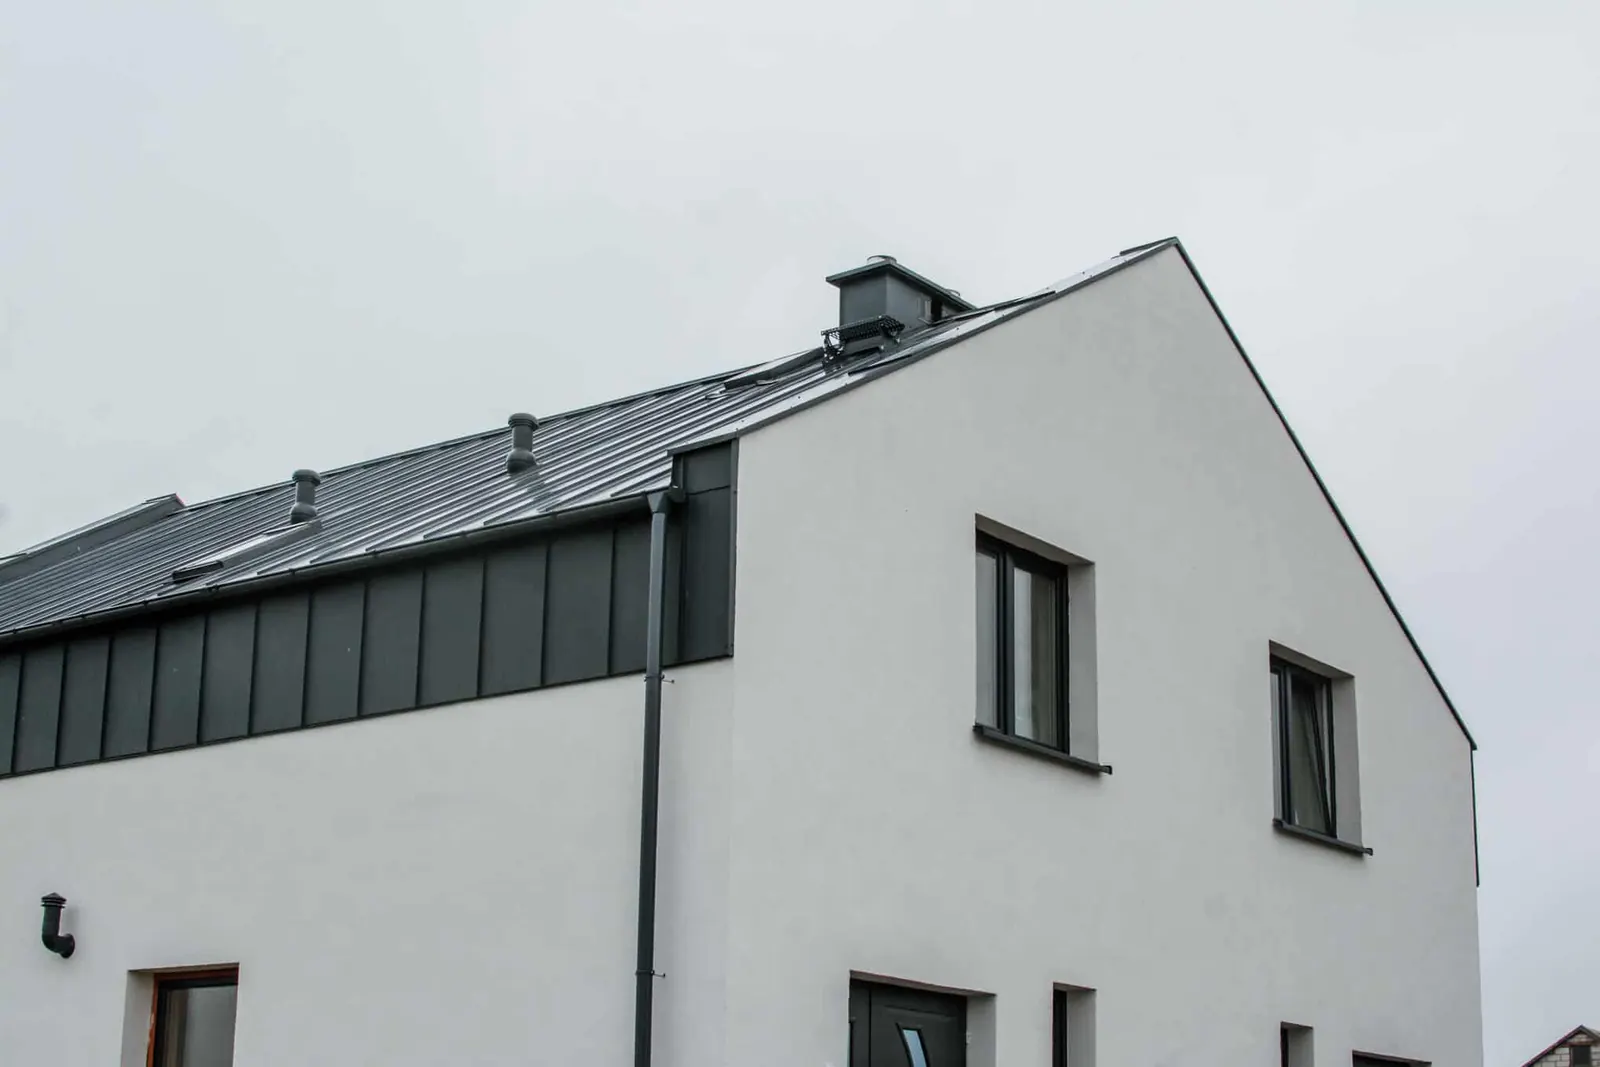
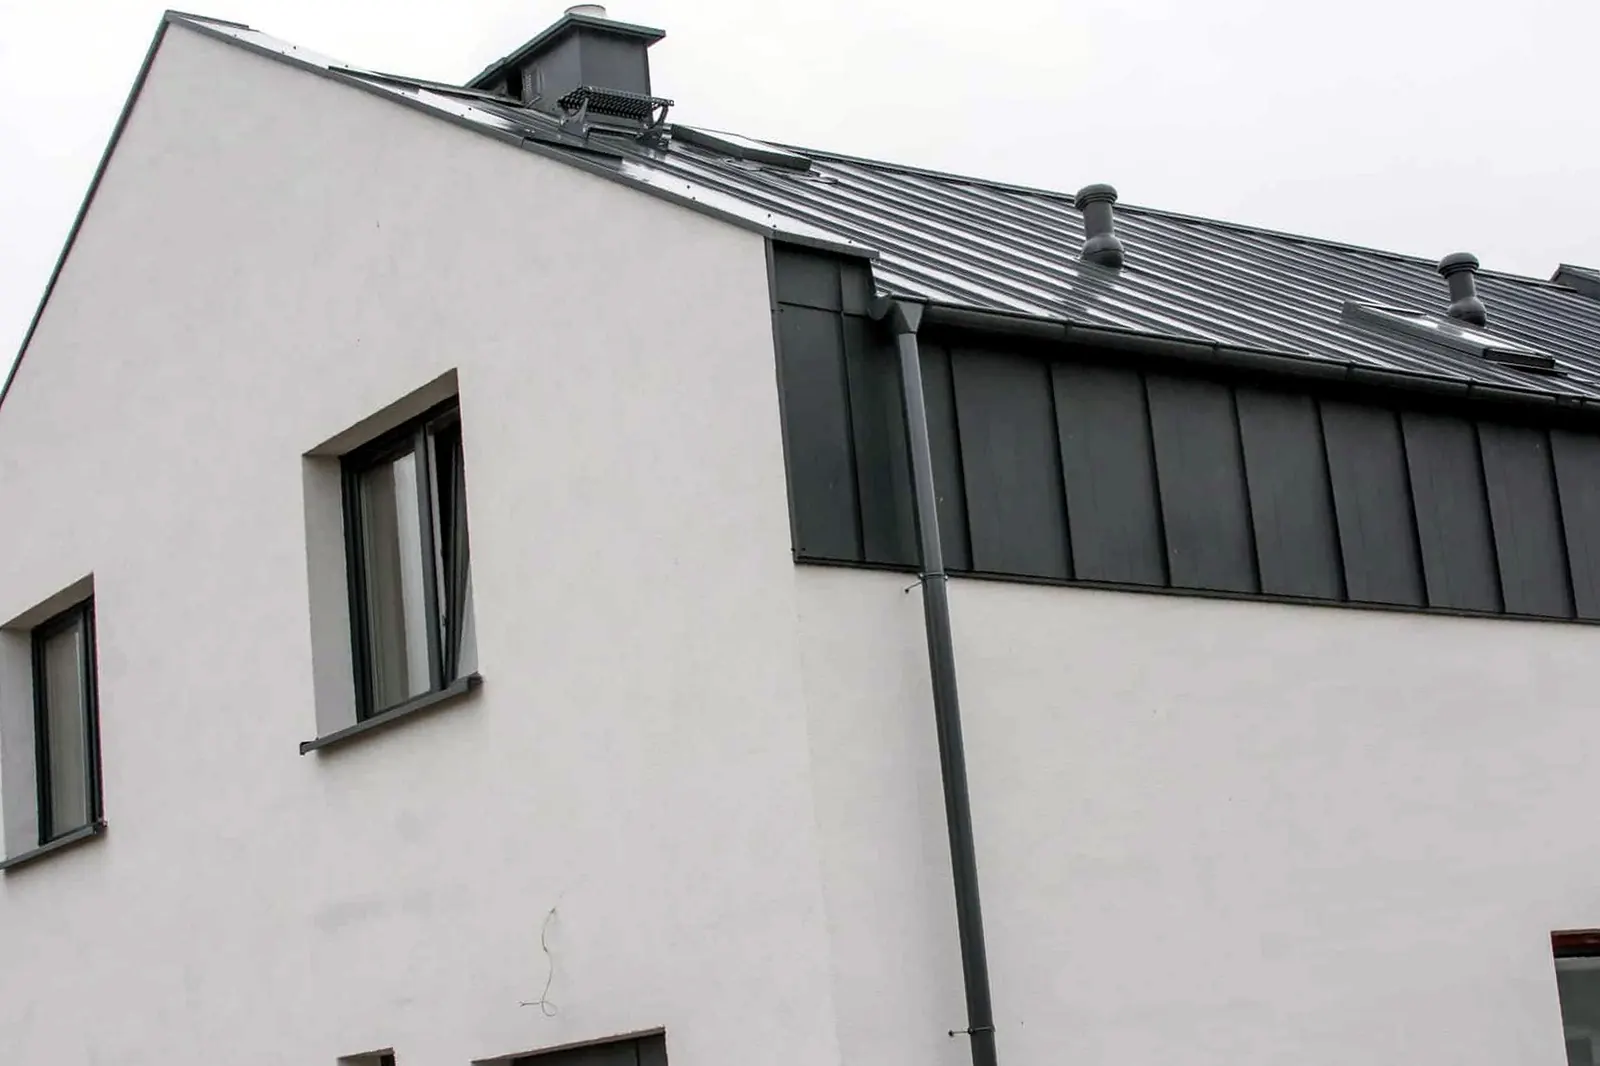
Level and reframe the realisation photographs; document the pipeline order
The three photographs were shot on a phone and shipped uncorrected: kubat8 was
about 4.9 degrees off, kubat7 about 5.1, and all three were flat grey and in three
different aspect ratios, which is part of why the gallery looked chaotic.

Now levelled by their measured tilt, cropped to an exact 3:2 (1.500, 1.501,
1.500), autocontrasted and exported at 1600px. The hero is now kubat7 - the most
complete view - and kubat1, which is keystone-dominated rather than merely tilted,
is demoted to a supporting shot because rotation cannot fix converging verticals.

Also adds a correction pass whose output the image build consumes, and corrects the
pipeline order during this work: rewire-schema.py reads the manifest, so it must run
after build-images.py. Run out of order it left the single-family JSON-LD image
array naming two tiles that no longer existed. Documented in docs/portfolio-system.md.

Note: levelling here is measured but approximate. kubat7 still shows the eave
converging because the camera looks along the house - that is perspective, not tilt,
and removing it needs a perspective correction rather than a rotation.

diff --git a/projekt-dom-jednorodzinny.html b/projekt-dom-jednorodzinny.html
@@ -117,23 +117,23 @@
             "@type": "ImageObject",
             "contentUrl": "https://goproject.com.pl/img/projects/dom-jednorodzinny/01-hero-1600.webp",
             "width": 1600,
-            "height": 1067,
-            "caption": "Dom jednorodzinny w Chojnicach — bryła od strony wjazdu",
+            "height": 1066,
+            "caption": "Dom jednorodzinny w Chojnicach — bryła od strony ogrodu",
             "representativeOfPage": true
           },
           {
             "@type": "ImageObject",
-            "contentUrl": "https://goproject.com.pl/img/projects/dom-jednorodzinny/02-widok-od-ogrodu-1000.webp",
-            "width": 1000,
-            "height": 667,
-            "caption": "Elewacja od strony ogrodu"
-          },
-          {
-            "@type": "ImageObject",
-            "contentUrl": "https://goproject.com.pl/img/projects/dom-jednorodzinny/03-elewacja-boczna-1000.webp",
+            "contentUrl": "https://goproject.com.pl/img/projects/dom-jednorodzinny/02-widok-od-ulicy-1000.webp",
             "width": 1000,
             "height": 667,
             "caption": "Elewacja boczna z oknami dachowymi"
+          },
+          {
+            "@type": "ImageObject",
+            "contentUrl": "https://goproject.com.pl/img/projects/dom-jednorodzinny/03-elewacja-frontowa-1000.webp",
+            "width": 1000,
+            "height": 667,
+            "caption": "Główna elewacja od strony wjazdu"
           }
         ]
       },
@@ -311,19 +311,19 @@
         
       </div>
 
-                        <!-- MAIN HERO IMAGE -->
+                              <!-- MAIN HERO IMAGE -->
       <figure class="mb-16 border border-gray-200 shadow-2xl overflow-hidden relative group">
         <img src="./img/projects/dom-jednorodzinny/01-hero-800.webp"
           srcset="./img/projects/dom-jednorodzinny/01-hero-800.webp 800w, ./img/projects/dom-jednorodzinny/01-hero-1600.webp 1600w"
           sizes="(min-width:1280px) 1200px, 100vw"
-          width="1600" height="1067"
+          width="1600" height="1066"
           loading="eager" fetchpriority="high" decoding="async"
-          alt="Dom jednorodzinny w Chojnicach — bryła od strony wjazdu"
+          alt="Dom jednorodzinny w Chojnicach — bryła od strony ogrodu"
           class="w-full h-auto" />
         <figcaption class="absolute bottom-6 left-6 bg-black/80 text-white font-mono text-xs px-4 py-2 flex items-center gap-2">
           <span class="text-accent font-bold">Realizacja</span>
           <span>&middot;</span>
-          <span>Dom jednorodzinny w Chojnicach — bryła od strony wjazdu</span>
+          <span>Dom jednorodzinny w Chojnicach — bryła od strony ogrodu</span>
         </figcaption>
       </figure>
 
@@ -482,37 +482,37 @@
         <div class="grid grid-cols-1 sm:grid-cols-2 lg:grid-cols-3 gap-6 items-start">
           <figure class="border border-gray-200 bg-studio-surface overflow-hidden group flex flex-col">
             <div class="relative overflow-hidden">
-              <img src="./img/projects/dom-jednorodzinny/02-widok-od-ogrodu-640.webp"
-                srcset="./img/projects/dom-jednorodzinny/02-widok-od-ogrodu-640.webp 640w, ./img/projects/dom-jednorodzinny/02-widok-od-ogrodu-1000.webp 1000w"
-                sizes="(min-width:1024px) 33vw, (min-width:640px) 50vw, 100vw"
-                width="1000" height="667"
-                loading="lazy" decoding="async"
-                alt="Elewacja od strony ogrodu"
-                class="w-full h-auto group-hover:scale-[1.03] transition-transform duration-500" />
-              <div class="absolute top-3 left-3 bg-black/80 text-white font-mono text-[10px] px-2.5 py-1">Widok od ogrodu</div>
-              <div class="absolute top-3 right-3 bg-accent text-black font-mono text-[10px] px-2.5 py-1">Realizacja</div>
-            </div>
-            <figcaption class="p-4 font-mono text-xs border-t border-gray-200 mt-auto">
-              <div class="font-bold text-black mb-1">Widok od ogrodu</div>
-              <p class="text-gray-500 text-[11px] font-sans">Elewacja od strony ogrodu</p>
-            </figcaption>
-          </figure>
-
-          <figure class="border border-gray-200 bg-studio-surface overflow-hidden group flex flex-col">
-            <div class="relative overflow-hidden">
-              <img src="./img/projects/dom-jednorodzinny/03-elewacja-boczna-640.webp"
-                srcset="./img/projects/dom-jednorodzinny/03-elewacja-boczna-640.webp 640w, ./img/projects/dom-jednorodzinny/03-elewacja-boczna-1000.webp 1000w"
+              <img src="./img/projects/dom-jednorodzinny/02-widok-od-ulicy-640.webp"
+                srcset="./img/projects/dom-jednorodzinny/02-widok-od-ulicy-640.webp 640w, ./img/projects/dom-jednorodzinny/02-widok-od-ulicy-1000.webp 1000w"
                 sizes="(min-width:1024px) 33vw, (min-width:640px) 50vw, 100vw"
                 width="1000" height="667"
                 loading="lazy" decoding="async"
                 alt="Elewacja boczna z oknami dachowymi"
                 class="w-full h-auto group-hover:scale-[1.03] transition-transform duration-500" />
-              <div class="absolute top-3 left-3 bg-black/80 text-white font-mono text-[10px] px-2.5 py-1">Elewacja boczna</div>
+              <div class="absolute top-3 left-3 bg-black/80 text-white font-mono text-[10px] px-2.5 py-1">Widok od ulicy</div>
               <div class="absolute top-3 right-3 bg-accent text-black font-mono text-[10px] px-2.5 py-1">Realizacja</div>
             </div>
             <figcaption class="p-4 font-mono text-xs border-t border-gray-200 mt-auto">
-              <div class="font-bold text-black mb-1">Elewacja boczna</div>
+              <div class="font-bold text-black mb-1">Widok od ulicy</div>
               <p class="text-gray-500 text-[11px] font-sans">Elewacja boczna z oknami dachowymi</p>
+            </figcaption>
+          </figure>
+
+          <figure class="border border-gray-200 bg-studio-surface overflow-hidden group flex flex-col">
+            <div class="relative overflow-hidden">
+              <img src="./img/projects/dom-jednorodzinny/03-elewacja-frontowa-640.webp"
+                srcset="./img/projects/dom-jednorodzinny/03-elewacja-frontowa-640.webp 640w, ./img/projects/dom-jednorodzinny/03-elewacja-frontowa-1000.webp 1000w"
+                sizes="(min-width:1024px) 33vw, (min-width:640px) 50vw, 100vw"
+                width="1000" height="667"
+                loading="lazy" decoding="async"
+                alt="Główna elewacja od strony wjazdu"
+                class="w-full h-auto group-hover:scale-[1.03] transition-transform duration-500" />
+              <div class="absolute top-3 left-3 bg-black/80 text-white font-mono text-[10px] px-2.5 py-1">Elewacja frontowa</div>
+              <div class="absolute top-3 right-3 bg-accent text-black font-mono text-[10px] px-2.5 py-1">Realizacja</div>
+            </div>
+            <figcaption class="p-4 font-mono text-xs border-t border-gray-200 mt-auto">
+              <div class="font-bold text-black mb-1">Elewacja frontowa</div>
+              <p class="text-gray-500 text-[11px] font-sans">Główna elewacja od strony wjazdu</p>
             </figcaption>
           </figure>
 

diff --git a/projekt-osiedle-budynkow-dwulokalowych.html b/projekt-osiedle-budynkow-dwulokalowych.html
@@ -311,7 +311,7 @@
 
       </div>
 
-                        <!-- MAIN HERO IMAGE -->
+                              <!-- MAIN HERO IMAGE -->
       <figure class="mb-16 border border-gray-200 shadow-2xl overflow-hidden relative group">
         <img src="./img/projects/osiedle-budynkow-dwulokalowych/01-hero-800.webp"
           srcset="./img/projects/osiedle-budynkow-dwulokalowych/01-hero-800.webp 800w, ./img/projects/osiedle-budynkow-dwulokalowych/01-hero-1600.webp 1600w"

diff --git a/projekt-budynek-mieszkalny-wielorodzinny.html b/projekt-budynek-mieszkalny-wielorodzinny.html
@@ -312,7 +312,7 @@
 
       </div>
 
-                        <!-- MAIN HERO IMAGE -->
+                              <!-- MAIN HERO IMAGE -->
       <figure class="mb-16 border border-gray-200 shadow-2xl overflow-hidden relative group">
         <img src="./img/projects/budynek-wielorodzinny/01-hero-800.webp"
           srcset="./img/projects/budynek-wielorodzinny/01-hero-800.webp 800w, ./img/projects/budynek-wielorodzinny/01-hero-1600.webp 1600w"

diff --git a/tools/build-images.py b/tools/build-images.py
@@ -37,6 +37,11 @@ R = lambda p: os.path.join(REC, p)
 IMP = os.path.expanduser('~/Desktop/goproject-imported/originals')
 I = lambda p: os.path.join(IMP, p)
 
+# Photographs corrected in the correction pass (levelled, cropped to 3:2, graded).
+# kubat1 is only cropped/graded - it is keystone-dominated, so rotation cannot fix it.
+COR = os.path.expanduser('~/Desktop/goproject-imported/corrected')
+I2 = lambda p: os.path.join(COR, p)
+
 W = 'Wizualizacja'
 REAL = 'Realizacja'
 KON = 'Koncepcja'
@@ -94,12 +99,12 @@ PROJECTS = [
         'slug': 'dom-jednorodzinny',
         'page': 'projekt-dom-jednorodzinny.html',
         'tiles': [
-            ('hero', REAL, I('goprojecthouse_adam_kubat1.jpg'),
-             'Dom jednorodzinny w Chojnicach — bryła od strony wjazdu'),
-            ('widok-od-ogrodu', REAL, I('goprojecthouse_adam_kubat7.jpg'),
-             'Elewacja od strony ogrodu'),
-            ('elewacja-boczna', REAL, I('goprojecthouse_adam_kubat8.jpg'),
+            ('hero', REAL, I2('goprojecthouse_adam_kubat7.jpg'),
+             'Dom jednorodzinny w Chojnicach — bryła od strony ogrodu'),
+            ('widok-od-ulicy', REAL, I2('goprojecthouse_adam_kubat8.jpg'),
              'Elewacja boczna z oknami dachowymi'),
+            ('elewacja-frontowa', REAL, I2('goprojecthouse_adam_kubat1.jpg'),
+             'Główna elewacja od strony wjazdu'),
             ('wnetrze-01', W, None,
              'Strefa dzienna — wizualizacja do wygenerowania'),
             ('detal-01', W, None,

diff --git a/docs/portfolio-system.md b/docs/portfolio-system.md
@@ -633,3 +633,32 @@ Deliberately **not** added, because they must not be invented: **`dateCreated`**
 **`locationCreated`** (place) on each project. Add them once the register is confirmed.
 
 The tool is idempotent — a second run is byte-identical.
+
+---
+
+## 8. Build pipeline — the order matters
+
+Three tools, and they must run in this order, because each consumes the previous
+one's output:
+
+```bash
+python3 tools/build-images.py        # 1. images + docs/image-manifest.json
+python3 tools/rebuild-portfolio.py   # 2. hero, gallery, fact bar, og:image
+python3 tools/rewire-schema.py       # 3. JSON-LD, incl. each project's image array
+```
+
+**Why:** `rewire-schema.py` reads the manifest to build every project's `image` array.
+Running it before `build-images.py` leaves that array naming tiles that no longer
+exist — which happened during development, when it kept pointing at two
+previously-named single-family tiles after the gallery was rebuilt.
+
+All three are idempotent, verified by hashing the output of two consecutive runs, so
+re-running any of them is safe. Two bugs of this class were found and fixed while
+building this:
+
+- `replace_element` did not consume its marker, so `<!-- MAIN HERO IMAGE -->` comments
+  accumulated (five per page at worst).
+- The fact bar was located by matching its old `Pliki: ...` text, so it only ever
+  updated once and then reported a stale count.
+
+Both are now position-based, and the pipeline is byte-stable on a second run.
